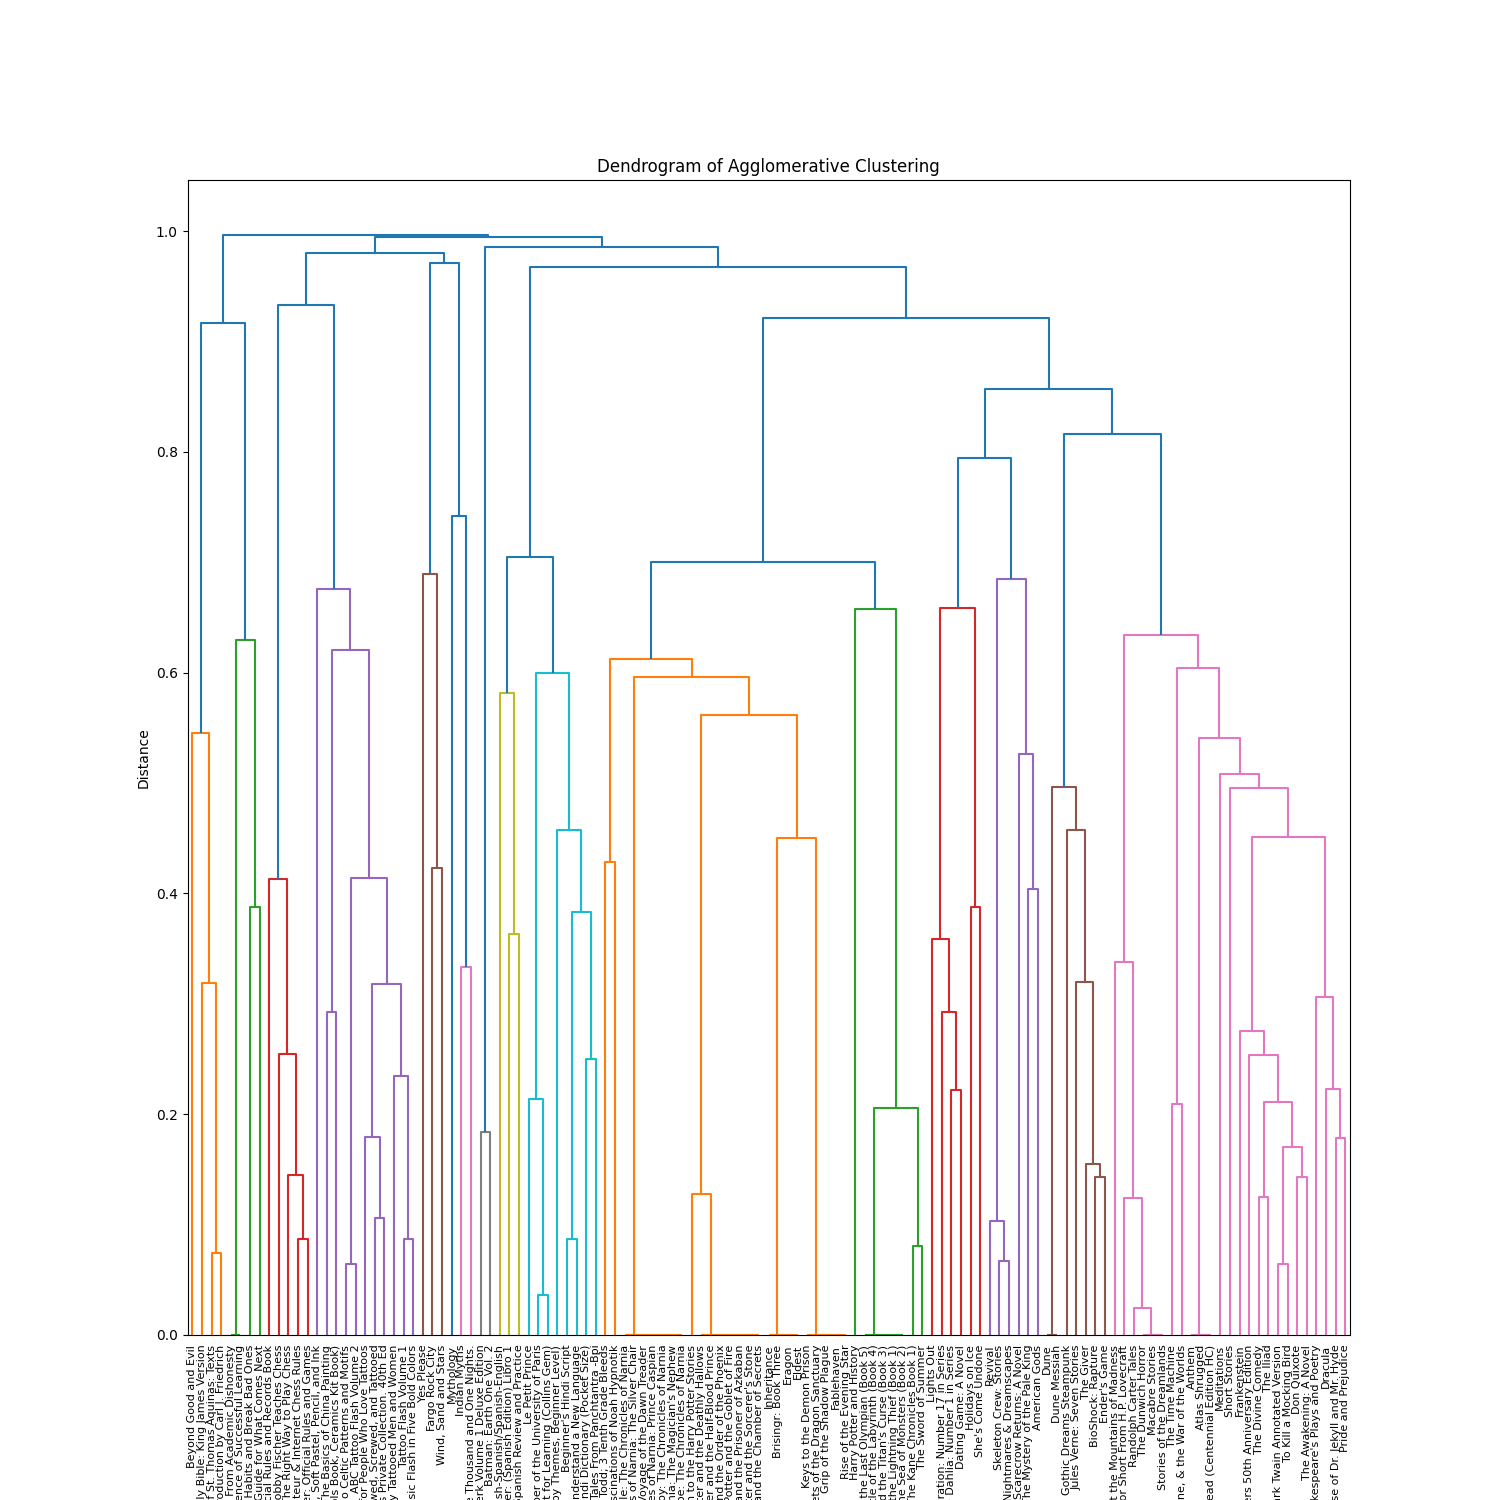
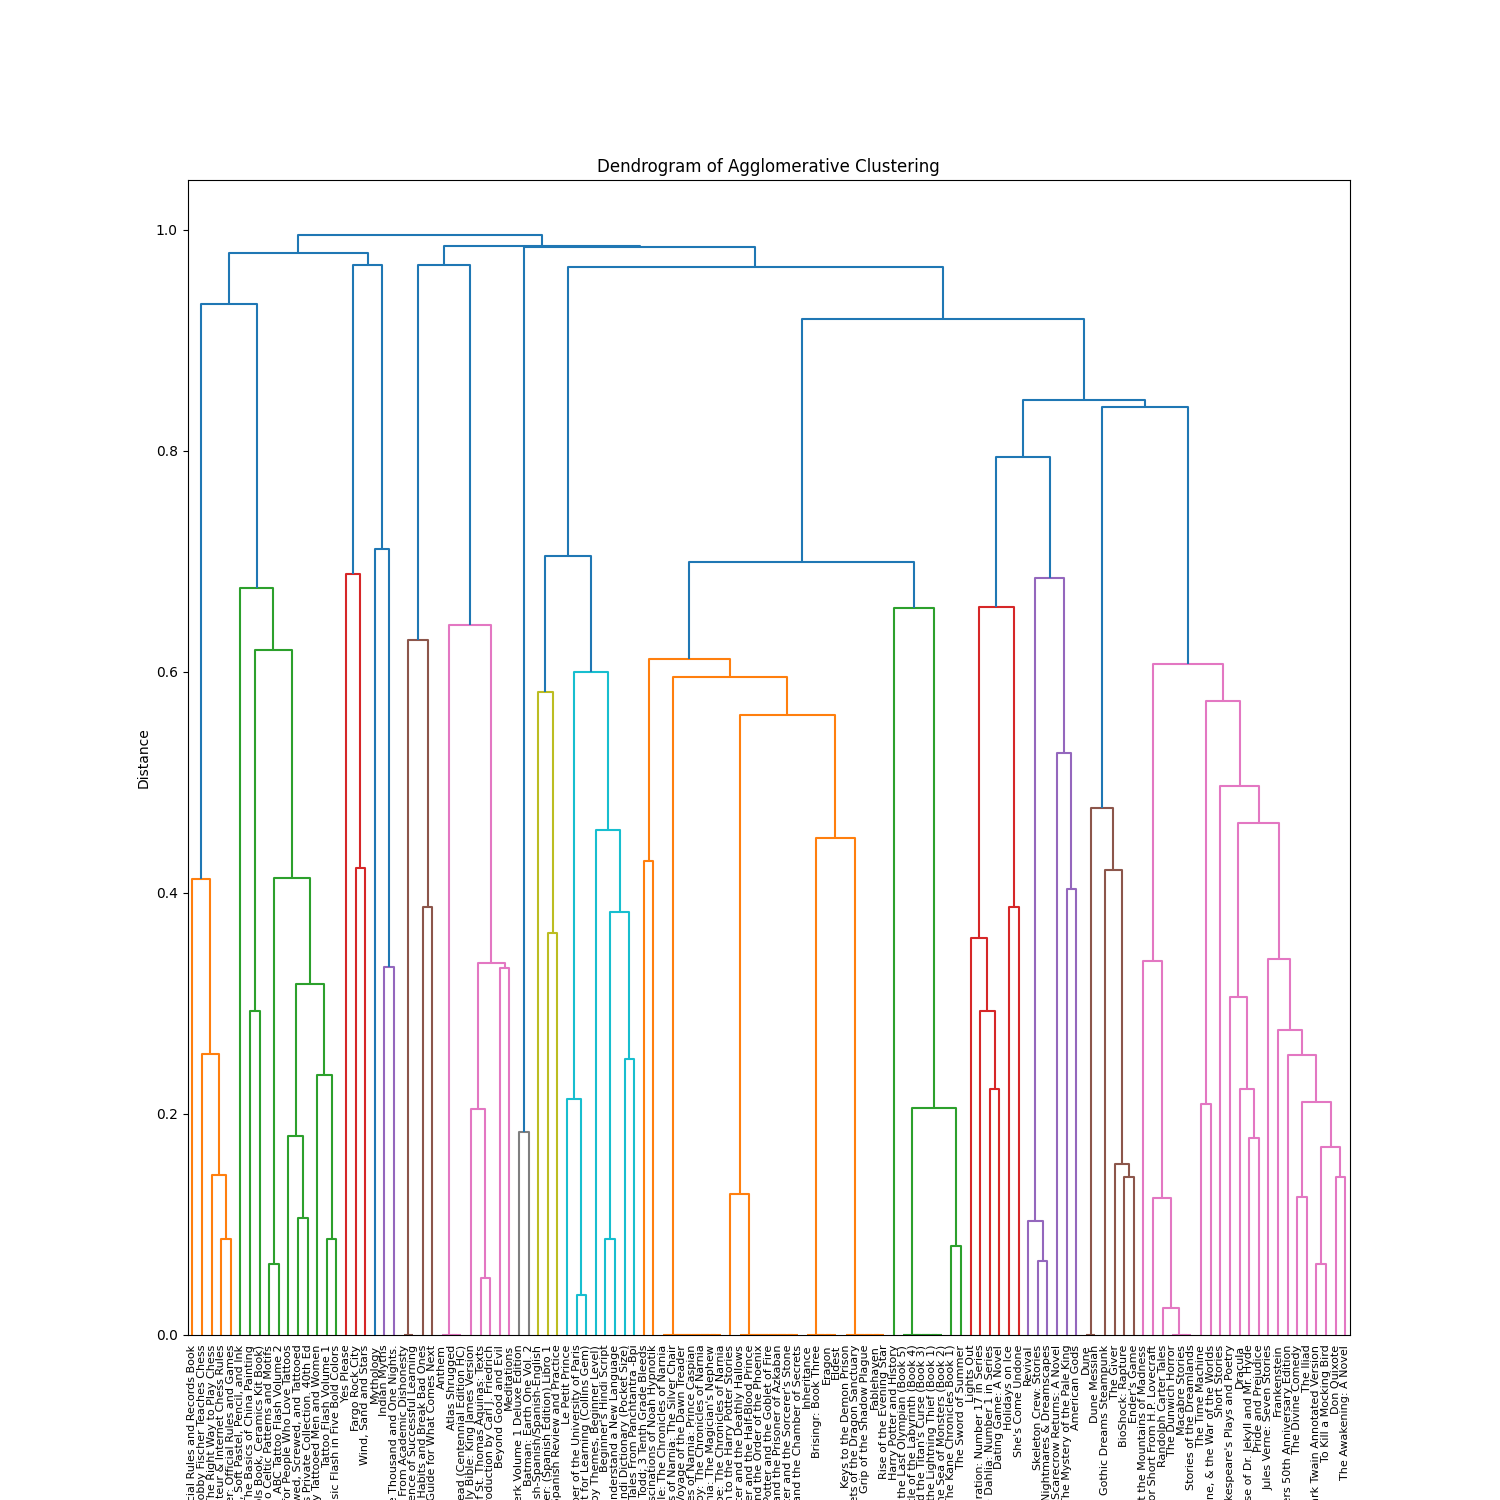
amazing split

diff --git a/src/main.py b/src/main.py
@@ -76,10 +76,7 @@ data = data.drop(columns=['tags', 'tags_list'])
 # one hot encode authors and languages
 data = pd.get_dummies(data, columns=['authors', 'languages'], dummy_na=False)
 
-X = data
-y = data.index
 
-print(X.head())
 
 #-------------------Feature Selection---------------------------------------
 min_books = 2
@@ -89,24 +86,28 @@ max_books = num_books * max_books_percent
 
 feature_counts = data.apply(lambda x: x.sum(), axis=0)
 features_to_keep = feature_counts[(feature_counts >= min_books) & (feature_counts <= max_books)].index
-X = data[features_to_keep]
+data = data[features_to_keep]
 #-------------------Feature Scaling-----------------------------------------
-author_cols = [col for col in X.columns if col.startswith('authors_')]
-languages_cols = [col for col in X.columns if col.startswith('languages_')]
-X[author_cols] *= 3.0
-X[languages_cols] *= 2
-X['Language'] *= 2
-X['Classics'] *= 2
-X['Romance'] *= 2
-X['Science Fiction'] *= 2
-X['Young Adult Fiction'] *= 2
-print(X.head())
+author_cols = [col for col in data.columns if col.startswith('authors_')]
+languages_cols = [col for col in data.columns if col.startswith('languages_')]
+data[author_cols] *= 3.0
+data[languages_cols] *= 2
+data['Language'] *= 2
+data['Classics'] *= 2
+data['Romance'] *= 2
+data['Science Fiction'] *= 2
+data['Young Adult Fiction'] *= 2
+data['Philosophy'] *= 2
+print(data.head())
 #-------------------Clustering----------------------------------------------
+
+X = data
+y = data.index
 
 clustering = AgglomerativeClustering(
     metric='cosine',
     linkage='average',
-    distance_threshold=0.8,
+    distance_threshold=0.72,
     n_clusters=None          
 )
 
